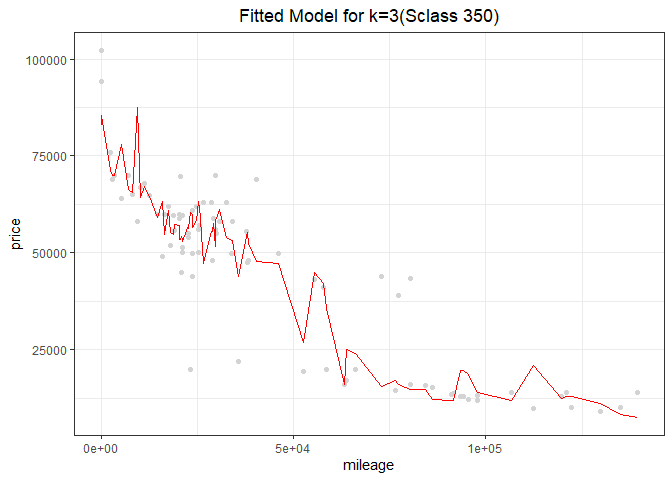
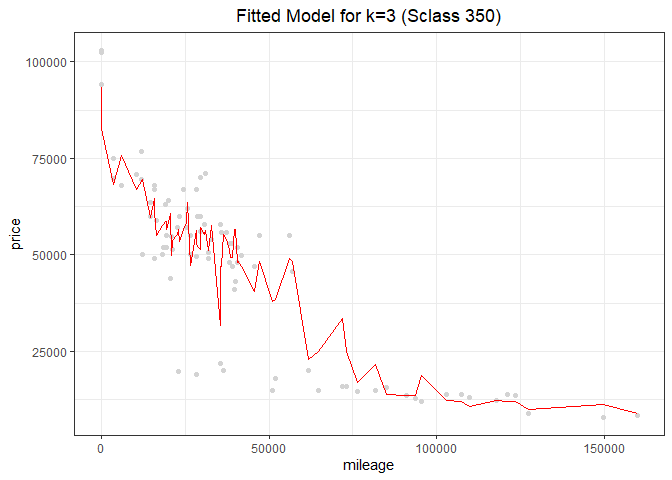
it's painful

diff --git a/hw1.md b/hw1.md
@@ -21,4 +21,39 @@ data.
 
 Then we ran K-nearest-neighbors for k, starting from k=3 to higher
 value. We faced an error when k=2, so the possible minimum value of k
-was 3. ![](hw1_files/figure-markdown_github/1.2.4-1.png)
+was 3. The fitted model for k=3 is as below, and RSME is 10984.7.
+
+![](hw1_files/figure-markdown_github/1.2.4-1.png)
+
+    ## [1] 10332.48
+
+When k=20, The fitted model is as below. RSME is 9636.9, which is
+smaller than RSME when k=3.
+
+![](hw1_files/figure-markdown_github/1.2.5-1.png)
+
+    ## [1] 10861.9
+
+Now, the fitted model for k=100 below shows us the fact that the graph
+gets smoother as k goes bigger. But RSME when k=100 is 11988.9, which is
+bigger than that of when k=20. So it is probable that the optimal k that
+minimizes RSME will be somewhere between k=3 and k=100.
+
+![](hw1_files/figure-markdown_github/1.2.6-1.png)
+
+    ## [1] 12683.42
+
+In order to find the optimal k, we plotted k versus RSME for every k.
+The graph below shows that RSME is minimized to 9487.9 when k equals 10.
+
+![](hw1_files/figure-markdown_github/1.2.7-1.png)
+
+    ## [1] 10
+
+    ## [1] 10148.6
+
+![](hw1_files/figure-markdown_github/1.2.7-1.png)
+
+    ## [1] 10
+
+    ## [1] 10148.6
